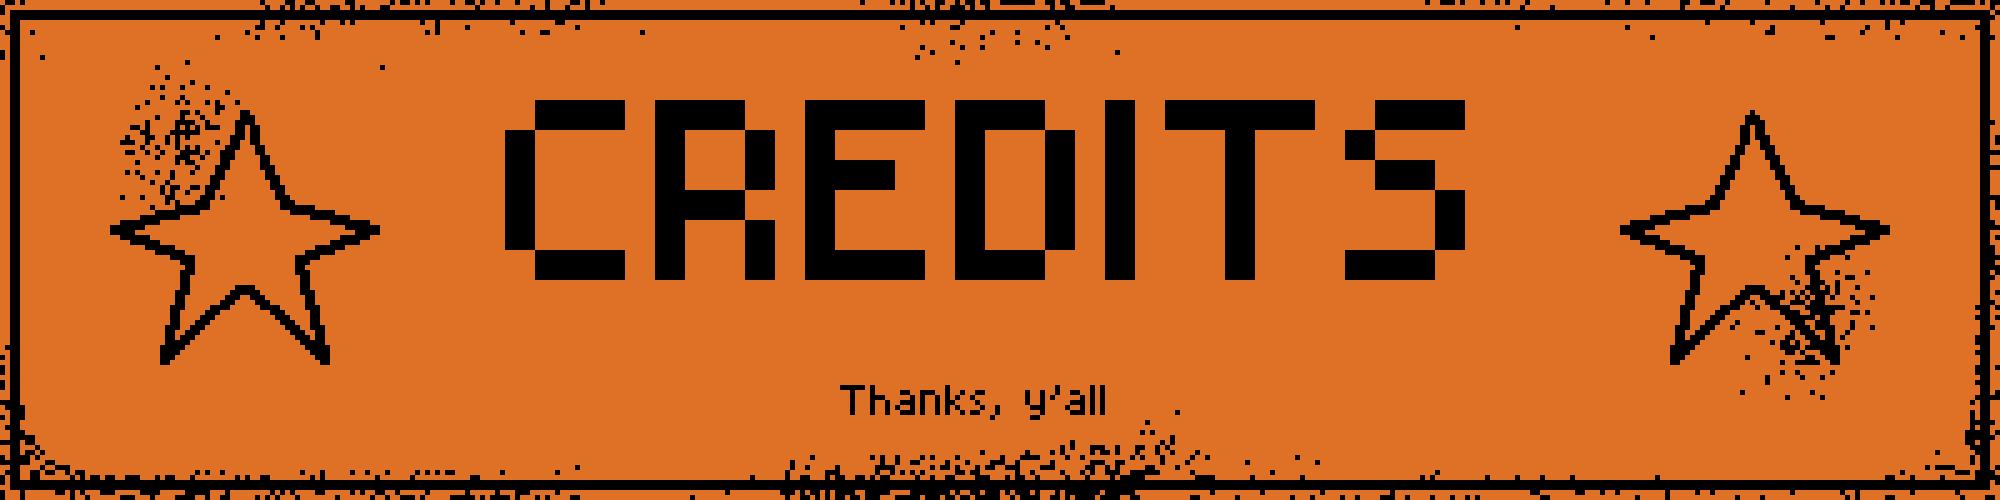
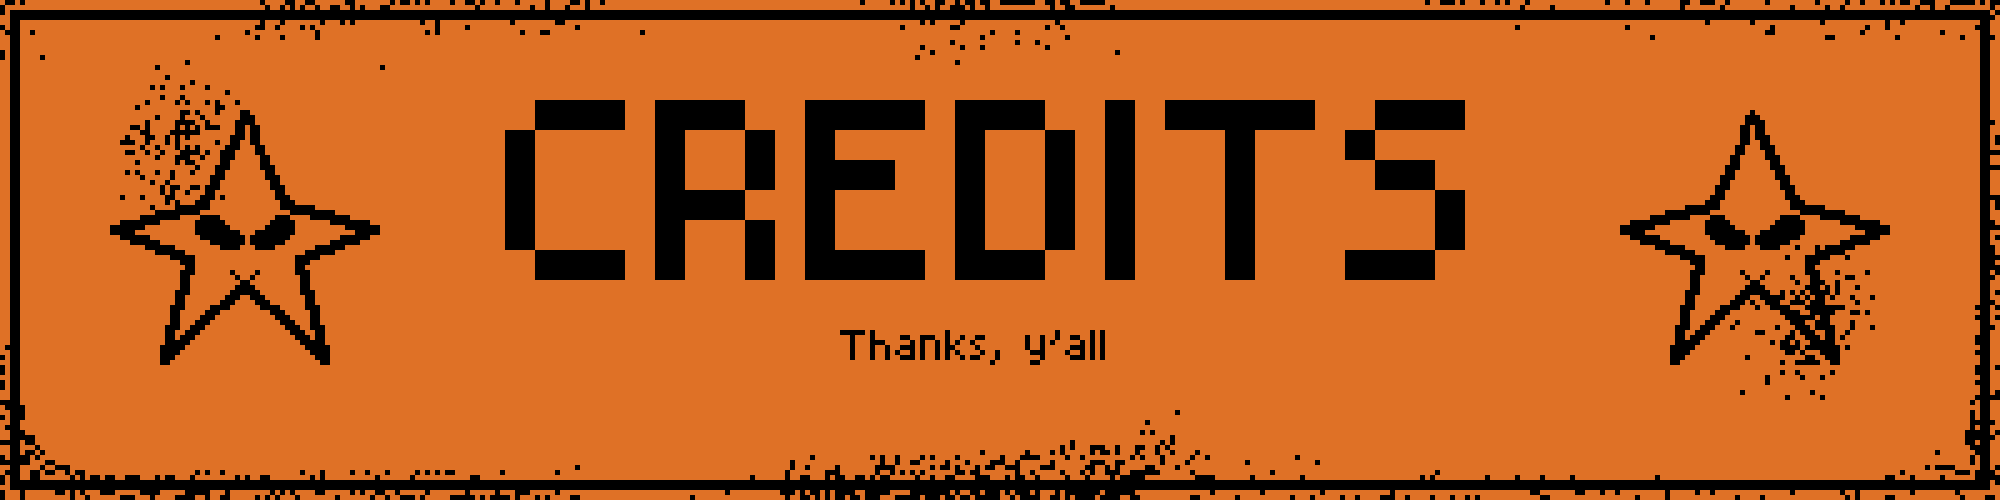
Thats it, AATM 1.0 is launched, stay tuned fellas!

diff --git a/public/gameArea/game.css b/public/gameArea/game.css
@@ -221,39 +221,39 @@ progress{
     }
 }
 
-@media only screen and (min-height: 1024px) {
+@media only screen and (min-height: 951px) {
     p {
-        font-size: 3rem;
-    }
-
-    progress{
-        width: 22rem;
-    }
-
-    .player {
-        width: 500px;
-        height: 800px;
-    }
-
-    .inputStyleLabel {
-        padding: 1.8rem;
-    }
-
-    .inputStyleBtn {
-        height: 80px;
-        width: 140px;
-
         font-size: 2rem;
     }
 
+    progress{
+        width: 10rem;
+    }
+
+    .player {
+        width: 300px;
+        height: 500px;
+    }
+
+    .inputStyleLabel {
+        padding: 1rem;
+    }
+
+    .inputStyleBtn {
+        height: 57px;
+        width: 100px;
+
+        font-size: 1.5rem;
+    }
+
     #nowTimeStyle {    
-        height: 145px;
-        width: 145px;
+        height: 100px;
+        width: 100px;
     }
 
     #mathArea {
-        height: 300px;
-        width: 400px;
+        height: 100px;
+        width: 200px;
     }
 
     #val1, #val2, #midVal {
@@ -262,6 +262,6 @@ progress{
 
     #victoryText {
         height: 500px;
-        width: 400px;
+        width: 350px;
     }
 }

diff --git a/public/optionsAndStuff/options.css b/public/optionsAndStuff/options.css
@@ -112,41 +112,27 @@ select{
     }
 }
 
-@media only screen and (min-height: 1024px) {
+@media only screen and (min-height: 951px) {
 
     #dificultyImg {
-        height: 275px;
-        width: 1000px;
+        height: 150px;
+        width: 700px;
     }
 
     #optBtn {
-        font-size: 2rem;
-        height: 150px;
-        width: 500px;    
+        font-size: 1rem;
+        height: 100px;
+        width: 200px;    
     }
 
     .btnPattern {
-        height: 275px;
-        width: 1000px;
+        height: 150px;
+        width: 700px;
     }
 
     select{
-        padding: 2rem;
-        font-size: 2rem;
+        padding: 1rem;
+        font-size: 1rem;
     }
 
-    #rangeVolume::-webkit-slider-runnable-track {
-        height: 2rem;
-        border-radius: 10px;
-        border: 1px solid #000000;
-        box-shadow: 0px 2px 0px rgba(0, 0, 0, 0.1);
-    }
-
-    #rangeVolume::-webkit-slider-thumb {
-        -webkit-appearance: none;
-        height: 48px;
-        width: 48px;
-        border-radius: 30px;
-        margin-top: -9px;
-    }
 }

diff --git a/public/CharacterSelection/chrSelection.css b/public/CharacterSelection/chrSelection.css
@@ -178,33 +178,33 @@ body {
     }
 }
 
-@media only screen and (min-height: 1024px) {
+@media only screen and (min-height: 951px) {
     #soundIcon {
-        height: 100px; 
-        width: 100px;
+        height: 75px; 
+        width: 75px;
     }
 
     #startBtn {
-        width: 200px; 
-        height: 150px; 
+        width: 150px; 
+        height: 100px; 
         filter: drop-shadow(0px 0px 5px black);
     }
 
     .player {
-        width: 600px;
-        height: 900px;
+        width: 250px;
+        height: 500px;
     }
 
     .imgPattern {
-        width: 220px; 
-        height: 130px; 
+        width: 150px; 
+        height: 100px; 
         filter: drop-shadow(0px 0px 5px black); 
     }
 
     .changeBtn {
         border: none;
         background-color: transparent;
-        font-size: 3rem;
+        font-size: 2rem;
 
         color: white;
     }

diff --git a/style.css b/style.css
@@ -97,21 +97,21 @@ body {
     }
 }
 
-@media only screen and (min-height: 1024px) {
+@media only screen and (min-height: 951px) {
     #audioIcon {
-        height: 100px;
-        width: 100px;
+        height: 75px;
+        width: 75px;
 }
 
     .titlePattern {
-        height: 300px; 
-        width: 1520px;
+        height: 200px; 
+        width: 1000px;
 
         margin-bottom: 4rem;
 }
 
     .btnPattern {
-        height: 250px;
-        width: 900px;
+        height: 150px;
+        width: 700px;
     }
 }

diff --git a/public/LoreZone/lorezone.css b/public/LoreZone/lorezone.css
@@ -112,10 +112,11 @@ body {
     }
 }
 
-@media only screen and (min-height: 1024px) {
+@media only screen and (min-height: 951px) {
+
     #soundIcon{
-        height: 100px;
-        width: 100px;
+        height: 75px;
+        width: 75px;
     }
 
     .blocker {
@@ -127,12 +128,12 @@ body {
 
         padding: 1rem;
 
-        height: 560px; 
-        width: 2430px;
+        height: 500px; 
+        width: 1600px;
     }
 
     .fowardBtn {
         height: 100px;
-        width: 80px;
+        width: 60px;
     }
 }

diff --git a/public/CreditsArea/credits.css b/public/CreditsArea/credits.css
@@ -57,8 +57,12 @@ p {
     }
 }
 
-@media only screen and (min-height: 1024px) {
+@media only screen and (min-height: 951px) {
+    body {
+        background-image: url(../../public/imgs/aliensBgCell/bgCellToAliensThanks2.png);
+    }
+
     p {
-        font-size: 3rem;
+        font-size: 12px;
     }
 }

diff --git a/public/CreditsArea/credits.html b/public/CreditsArea/credits.html
@@ -24,6 +24,9 @@
             <div>
                 <p style="text-align: center;">"Nothing at all...."</p>
             </div>
+            <div>
+                <p style="text-align: center;">Main inspiration: cookienoobz</p>
+            </div>
         </div>
     </main>
 </body>

diff --git a/src/functions/musicFunction/volumeFunction.js b/src/functions/musicFunction/volumeFunction.js
@@ -10,7 +10,7 @@ export function updateVolumeOpt(domValue, volumeValue) {
 
 export function updateVolume(domValue, volumeValue) {
     if (volumeValue == null) {
-        domValue.volume = 1;
+        domValue.volume = 0.5;
     } else {
         domValue.volume = volumeValue;
     }